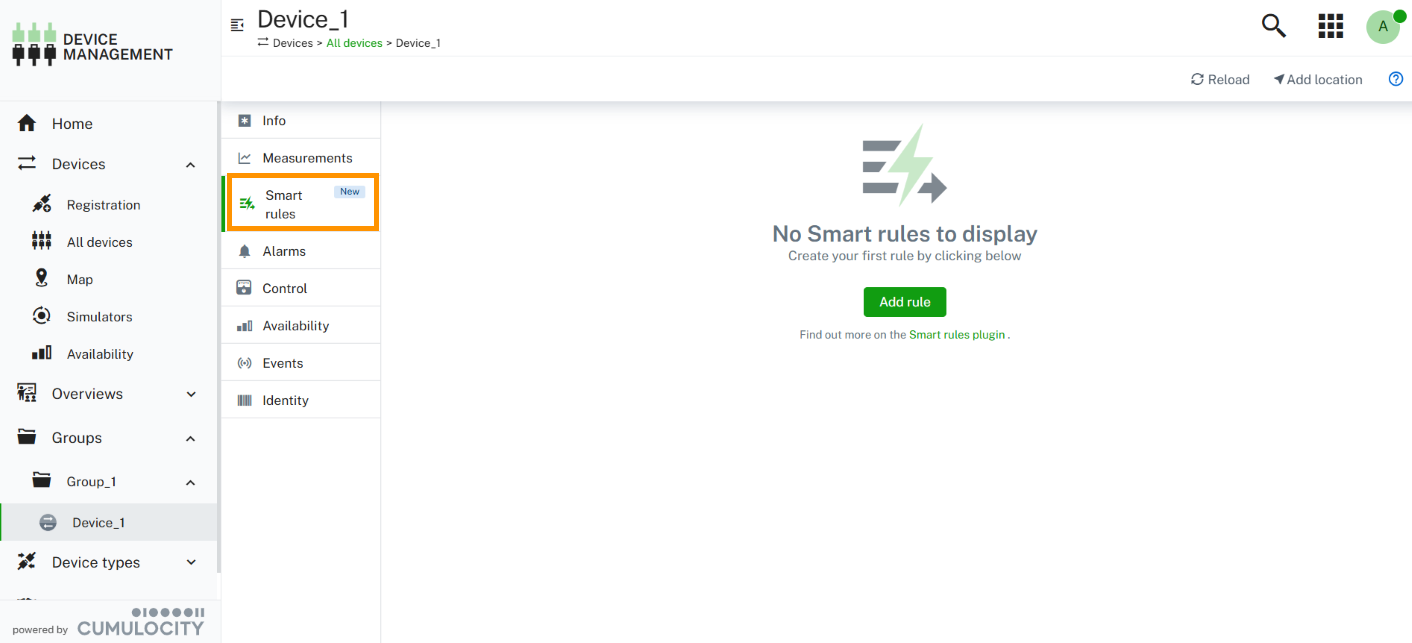
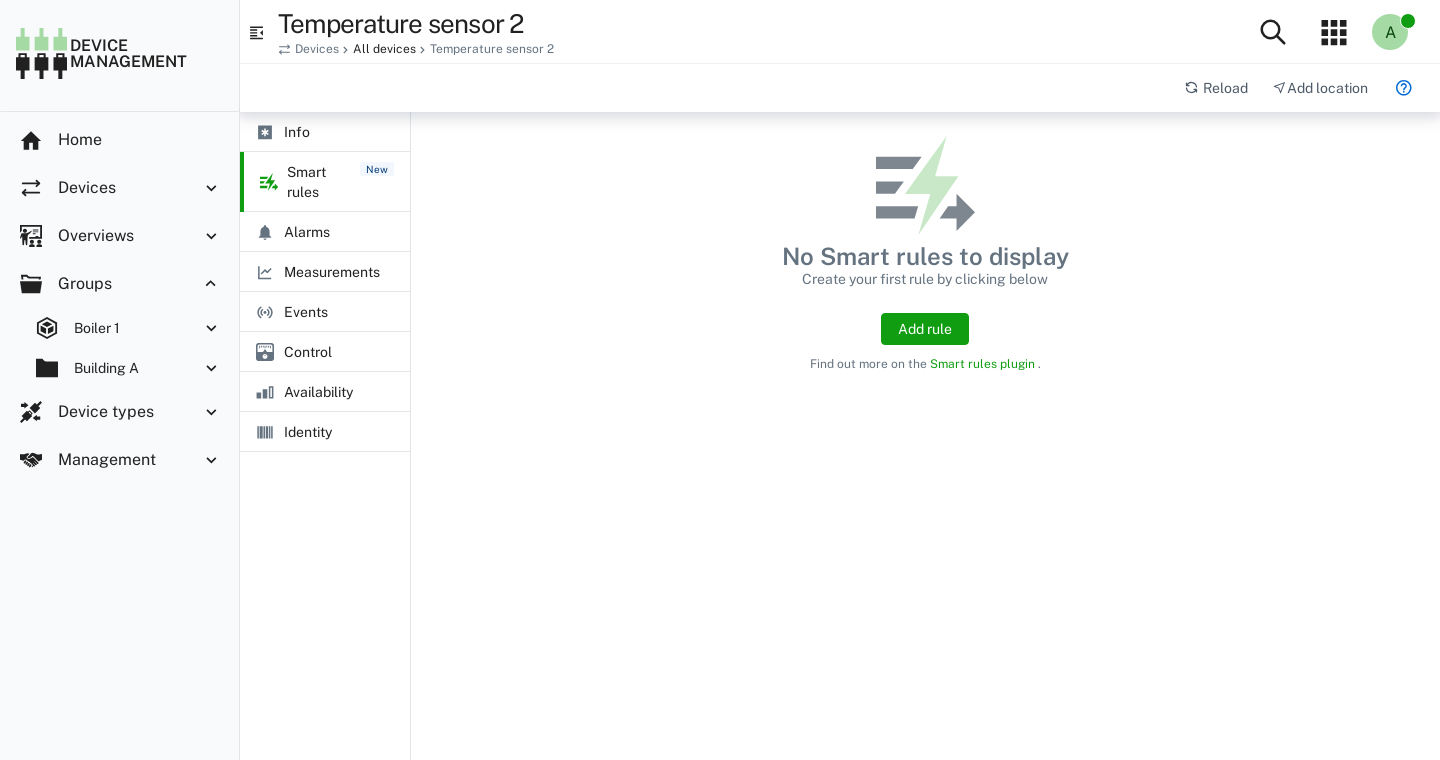
Retake and add smart rules (NEW) screenshots against plugin 27.316.0 [PAB-5296]
Replace the rule list, empty tab and production mode validation
screenshots, and add the Add rule dialog with official and custom
labels, the rule editor, and the deployment target for a group and an
asset. Taken on a preprod tenant (27.314) with a temporary Device
Management clone and test data that were removed afterwards. Remove the
screenshot TODOs and note that OK in the Add rule dialog creates the
rule as an inactive rule.

diff --git a/content/streaming-analytics/smart-rules-plugin-bundle/getting-started.md b/content/streaming-analytics/smart-rules-plugin-bundle/getting-started.md
@@ -60,11 +60,11 @@ At least one device must be registered in {{< product-c8y-iot >}}. Preferably, t
 1. In the Device Management application, navigate to **Devices** > **All devices** and select a device.
 2. Click the **Smart rules (NEW)** tab.
    ![Smart rules tab](/images/streaming-analytics/smart-rules-plugin/empty-smart-rule.png)
-   **[TODO PAB-5296: retake this screenshot against the GA UI, after PAB-5451 and the v1 UI migration (T029).]**
 3. Click **Add rule**.
-   The **Add rule** dialog lists the rule templates that apply to the current context. Each rule template shows an **Official** or **Custom** label.
-   **[TODO PAB-5296: add a screenshot of the Add rule dialog with the Official and Custom labels, taken against the GA UI.]**
+   The **Add rule** dialog lists the rule templates that apply to the current context. Each rule template shows an **Official** or **Custom** label. To find a rule template, enter a part of its name, description, or tag in the search field.
+   ![Add rule dialog with official and custom rule templates](/images/streaming-analytics/smart-rules-plugin/add-rule-dialog.png)
 4. Select the rule template "On measurement explicit threshold create alarm" and click **OK**.
+   The plugin creates the rule as an inactive rule and opens it.
 5. Configure the rule:
    - In the name field, enter a name for the rule. A name is mandatory. It must be unique among the rules of the same rule template.
    - Optionally, add a note.
@@ -77,7 +77,6 @@ At least one device must be registered in {{< product-c8y-iot >}}. Preferably, t
 The rule is shown in the list of rules with its status (**Active** or **Inactive**). While the rule is active, it creates an alarm each time a measurement value is outside the threshold range.
 
 ![Smart rules list](/images/streaming-analytics/smart-rules-plugin/smart-rules-list.png)
-**[TODO PAB-5296: retake this screenshot against the GA UI. It must show the combined list of rules with the Official and Custom labels.]**
 
 You can create rules from groups and assets in the same way. For a group or an asset, you also select the deployment target, see [Selecting the deployment target](/streaming-analytics/smart-rules-plugin/#selecting-the-deployment-target).
 

diff --git a/content/streaming-analytics/smart-rules-plugin-bundle/understanding-the-plugin.md b/content/streaming-analytics/smart-rules-plugin-bundle/understanding-the-plugin.md
@@ -54,7 +54,7 @@ A rule has the following fields and properties:
 | **Parameters**       | The parameters of the rule template.<br>The input source parameter takes its value from the current device, group, or asset context. You cannot change the context. For a group or an asset, you select the deployment target, see [Selecting the deployment target](#selecting-the-deployment-target).<br>You can edit all other parameters. |
 | **Active/Inactive**  | Switch the rule to **Active** to deploy it.<br>While the rule is active, all fields and properties are read-only. To edit the rule, switch it to **Inactive**. |
 
-**[TODO PAB-5296: retake the screenshots of the rule details and the rule editor against the GA UI, after PAB-5451 and the v1 UI migration (T029).]**
+![Rule from a custom rule template in the smart rules (NEW) plugin](/images/streaming-analytics/smart-rules-plugin/rule-editor.png)
 
 ### Selecting the deployment target {#selecting-the-deployment-target}
 
@@ -75,7 +75,11 @@ The **Assets of group** option is only shown if it is enabled for your tenant. I
 
 To change the deployment target of an existing rule, switch the rule to **Inactive** first. While a rule is active, its deployment target is read-only.
 
-**[TODO PAB-5296: add a screenshot of the deployment target selector for a group and for an asset, taken against the GA UI.]**
+The following images show the deployment target for a group, with the **Assets of group** option enabled, and for an asset:
+
+![Deployment target for a group](/images/streaming-analytics/smart-rules-plugin/deployment-target-group.png)
+
+![Deployment target for an asset](/images/streaming-analytics/smart-rules-plugin/deployment-target-asset.png)
 
 #### Deployment target in the Smart Rules API {#deployment-target-in-the-smart-rules-api}
 
@@ -150,4 +154,3 @@ This validation applies only to models with template parameters with the value s
 - When you enter a duplicate instance name, the error message **Instance name already exists** is shown below the instance name field. You cannot proceed.
 
 ![Production mode validation](/images/streaming-analytics/smart-rules-plugin/production-mode-validation.png)
-**[TODO PAB-5296: retake this screenshot against the GA UI.]**

diff --git a/content/device-management-application/viewing-device-details.md b/content/device-management-application/viewing-device-details.md
@@ -56,7 +56,6 @@ This feature is in Public Preview and may be subject to change in the future.
 The **Smart rules (NEW)** tab shows the rules of the device. On this tab, you create, edit, activate, deactivate, and delete rules. You create a rule from an official rule template, which is ready to use, or from a custom rule template that is built with Analytics Builder.
 
 ![Smart rules new tab](/images/streaming-analytics/smart-rules-plugin/smart-rules-list.png)
-**[TODO PAB-5296: retake this screenshot against the GA UI.]**
 
 To create your first rule, refer to [Creating your first smart rule](/streaming-analytics/smart-rules-plugin/#creating-your-first-smart-rule).
 

diff --git a/content/cockpit/cockpit-smart-rules-plugin.md b/content/cockpit/cockpit-smart-rules-plugin.md
@@ -21,7 +21,6 @@ Smart rules (NEW) replace the [legacy smart rules](/cockpit/smart-rules/), which
 The **Smart rules (NEW)** tab shows the rules of the current device, group, or asset. On this tab, you create, edit, activate, deactivate, and delete rules.
 
 ![New smart rules tab](/images/streaming-analytics/smart-rules-plugin/smart-rules-list.png)
-**[TODO PAB-5296: retake this screenshot against the GA UI.]**
 
 To create your first rule, refer to [Creating your first smart rule](/streaming-analytics/smart-rules-plugin/#creating-your-first-smart-rule).
 
